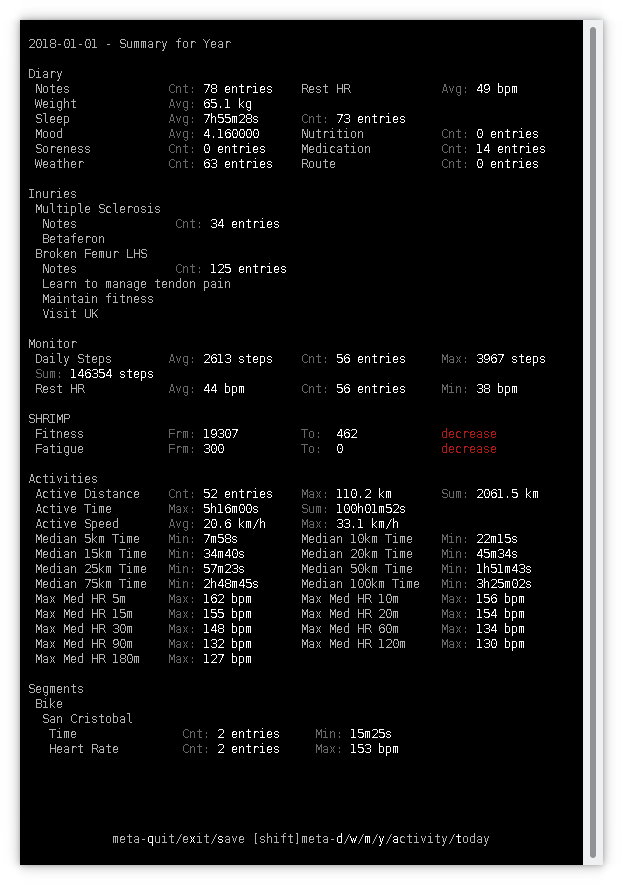
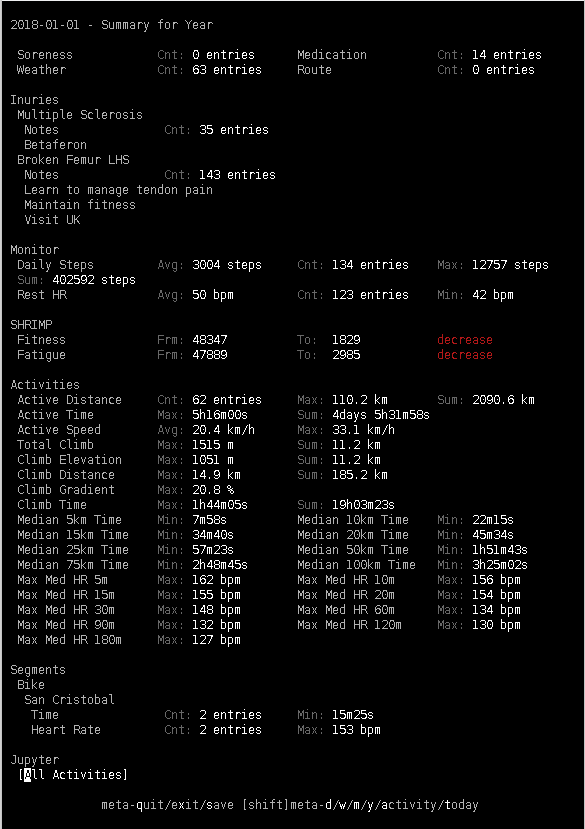
updating docs

diff --git a/ch2/uranus/notebook/data.py b/ch2/uranus/notebook/data.py
@@ -6,7 +6,7 @@ import pandas as pd
 
 from .names import *
 from ...data import activity_statistics, statistics
-from ...lib.date import time_to_local_time, to_time
+from ...lib.date import time_to_local_time, to_time, HMS, YMD
 from ...stoats.calculate.monitor import MonitorStatistics
 from ...stoats.names import LATITUDE, LONGITUDE, SPHERICAL_MERCATOR_X, SPHERICAL_MERCATOR_Y, DISTANCE, CADENCE, \
     ALTITUDE, HR_IMPULSE_10, HR_ZONE, SPEED, ELEVATION, TIME, LOCAL_TIME, FITNESS, FATIGUE, DAILY_STEPS, REST_HR, \
@@ -33,9 +33,7 @@ def std_activity_stats(s, local_time=None, time=None, group=None, activity_journ
 
     stats[CLIMB_MS] = stats[ELEVATION_M].diff() * 0.1
     stats[TIME] = pd.to_datetime(stats.index)
-    # stats[LOCAL_TIME] = stats[TIME].apply(lambda x: time_to_local_time(x).strftime('%H:%M:%S'))
-    # this seems to be a bug in pandas not supporting astimezone for some weird internal datetime
-    stats[LOCAL_TIME] = stats[TIME].apply(lambda x: time_to_local_time(to_time(x.timestamp())).strftime('%H:%M:%S'))
+    stats[LOCAL_TIME] = stats[TIME].apply(lambda x: time_to_local_time(x.to_pydatetime(), HMS))
 
     return stats
 
@@ -57,6 +55,6 @@ def std_health_stats(s):
     stats[ACTIVE_TIME_H] = stats[ACTIVE_TIME] / 3600
     stats[ACTIVE_DISTANCE_KM] = stats[ACTIVE_DISTANCE] / 1000
     stats[TIME] = pd.to_datetime(stats.index)
-    stats[LOCAL_TIME] = stats[TIME].apply(lambda x: time_to_local_time(to_time(x.timestamp())).strftime('%Y-%m-%d'))
+    stats[LOCAL_TIME] = stats[TIME].apply(lambda x: time_to_local_time(x.to_pydatetime(), YMD))
 
     return stats

diff --git a/ch2/command/diary.py b/ch2/command/diary.py
@@ -183,7 +183,7 @@ class DailyDiary(Diary):
     def _display_gui(self, s, f):
         menus = list(self.__gui_menus(s, f))
         if menus:
-            yield Pile([Text('GUI'), Indent(Pile(menus))])
+            yield Pile([Text('Jupyter'), Indent(Pile(menus))])
 
     def __gui_menus(self, s, f):
         for aj1 in ActivityJournal.at_date(s, self._date):
@@ -209,9 +209,9 @@ class ScheduleDiary(Diary):
     Display summary data for the given schedule.
     '''
 
-    def __init__(self, log, db, date, schedule, server):
+    def __init__(self, log, db, date, schedule):
         self._schedule = schedule
-        super().__init__(log, db, self._refine_new_date(date), server)
+        super().__init__(log, db, self._refine_new_date(date))
 
     def _header(self):
         return Text(self._date.strftime('%Y-%m-%d') + ' - Summary for %s' % self._schedule.describe())
@@ -240,7 +240,7 @@ class ScheduleDiary(Diary):
     def _display_gui(self, s, f):
         button = SquareButton('All Activities')
         connect_signal(button, 'click', self.__show_all)
-        yield Pile([Text('GUI'), Indent(f(Padding(Fixed(button, 16), width='clip')))])
+        yield Pile([Text('Jupyter'), Indent(f(Padding(Fixed(button, 16), width='clip')))])
 
     def __show_all(self, w):
         finish = self._schedule.next_frame(self._date)

diff --git a/ch2/lib/date.py b/ch2/lib/date.py
@@ -6,7 +6,8 @@ from calendar import monthrange
 
 
 YMD = '%Y-%m-%d'
-YMD_HMS = '%Y-%m-%d %H:%M:%S'
+HMS = '%H:%M:%S'
+YMD_HMS = YMD + ' ' + HMS
 
 
 def format_date(date):

diff --git a/docs/daily-use.md b/docs/daily-use.md
@@ -13,6 +13,7 @@
   * [Download from Device](#download-from-device)
   * [Activity Entry](#activity-entry)
   * [FTHR](#fthr)
+* [Data Analysis](#data-analysis)
 
 ## Organisation
 
@@ -56,12 +57,8 @@ See [configuration](configuration) for how to add additional fields.
 Above, a typical diary entry, showing notes and HR zones for an
 activity.
 
-At the very bottom of the page is a menu/button that pushes a [graphic
-summary](summary) to your browser.  This can either be of the
-selected activity alone, or compared to some similar route (use
-left/right arrow keys to select comparison; enter to display).
-
-![](graphic-summary.png)
+Options under the heading "Jupyter" are explained
+[below](#data-alanylsis).
 
 ### Re-calculating Statistics
 
@@ -186,3 +183,24 @@ A possible estimator for your FTHR is the "Max med HR 30m" statistic.
 This is the maximum value found for the median heart rate over 30
 minutes in ride (so the heart rate for the entire ride is median
 filtered with a 30 minute window and then the maximum value taken).
+
+## Data Analysis
+
+For full details [go here](data-analysis), but Choochoo includes some
+basic data anlysis "built-in":
+
+  * At the bottom of a daily diary page that contains an activity you
+    will see a section labelled "Jupyter" with one or two menu
+    options.  Use "tab" to navigate to the menu, "left" and "right"
+    (arrows / cursor keys) to change, and "return" to select.
+
+  * At the bottom of the monthly / yearly diary page you will see a
+    section labelled "Jupyter".  Use "tab" to navigate to the "button"
+    and "return" to select.
+
+Selecting will start Jupyter and display a page in the browser.  You
+can edit this page and load data while the diary remains running.
+
+An example display for comparing activities is:
+
+![](graphic-summary.png)

diff --git a/docs/index.md b/docs/index.md
@@ -40,8 +40,8 @@ support for power meters.
 
 * Manual
   * [Getting Started](getting-started)
-  * [Daily Use](daily-use)
-  * [Data Analysis](data-analysis)
+  * [Daily Use](daily-use) (including [Basic Data Analysis](daily-use#data-analysis))
+  * [Advanced Data Analysis](data-analysis)
   * [Command Summmary](command-summary)
 * Reference
   * [Data Model](data-model)
